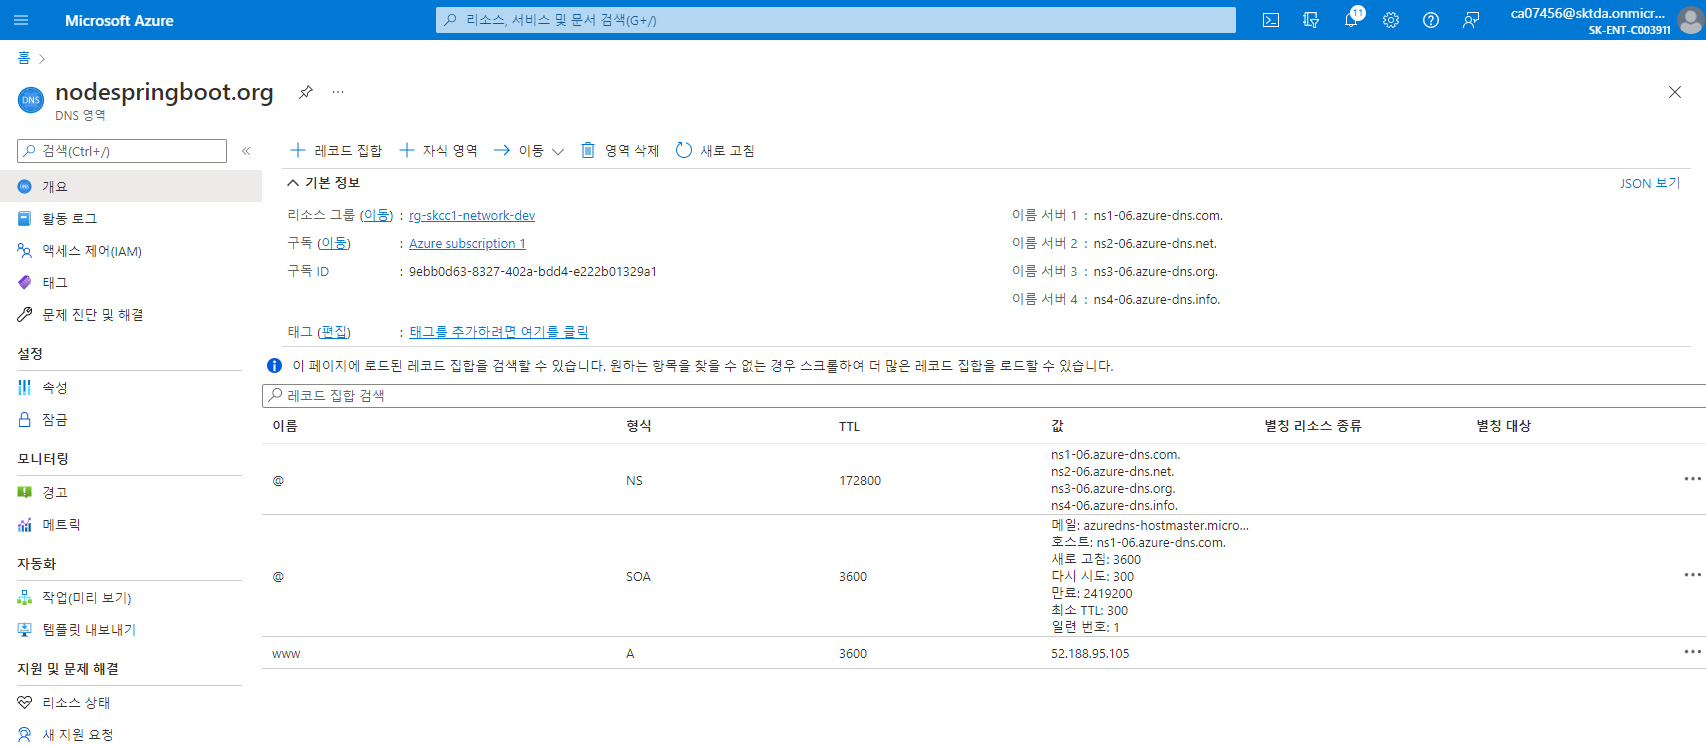
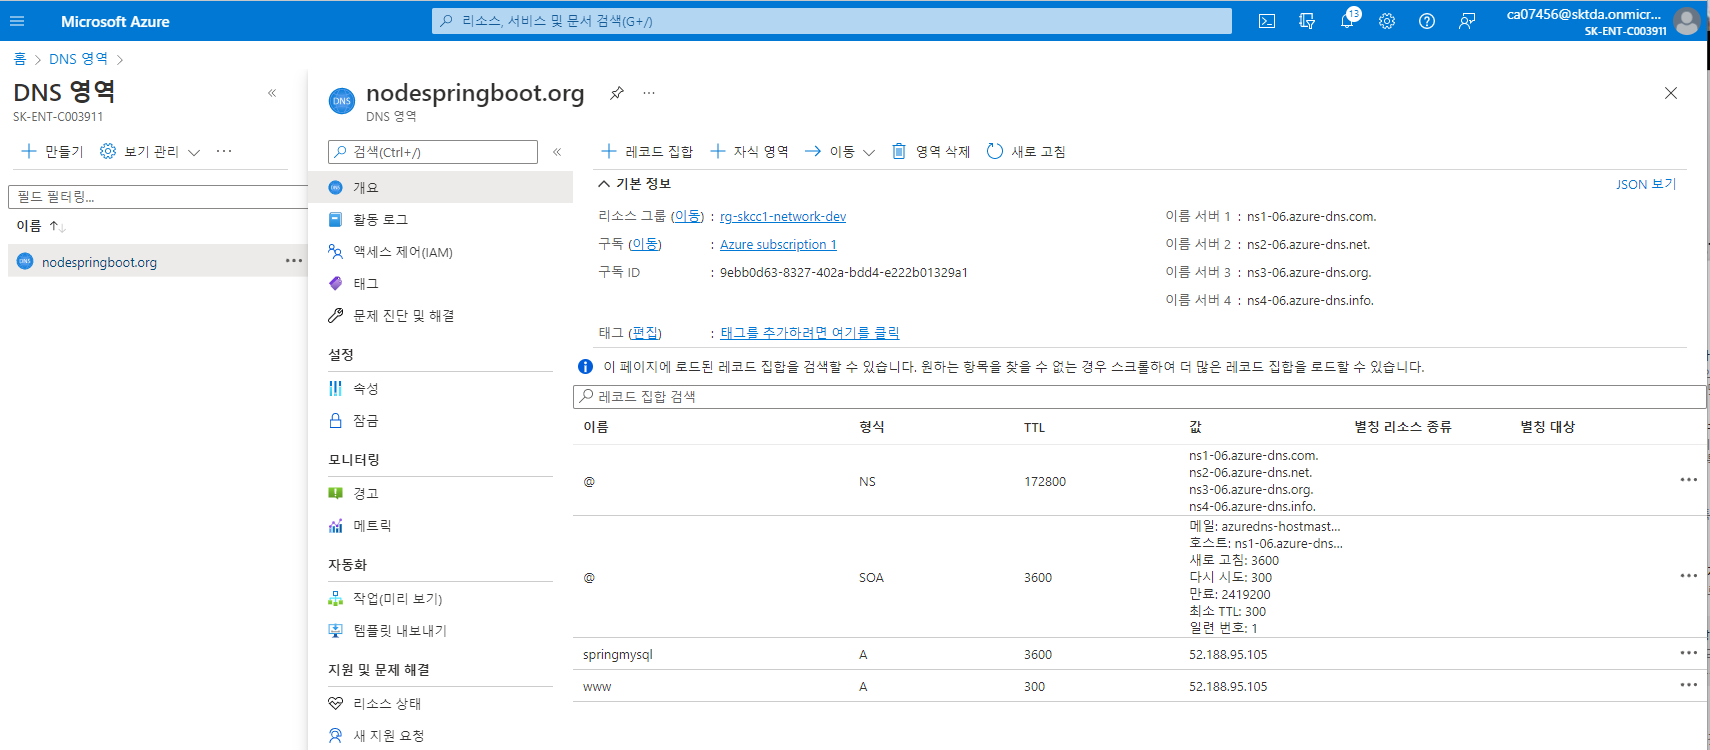
2022-04-16

diff --git a/loadbalance-springmysql.md b/loadbalance-springmysql.md
@@ -79,11 +79,13 @@ Set-AzLoadBalancerBackendAddressPool -InputObject $backendPool
 - A Record 등록(www) : 52.188.95.105
 ![lb-aci-springmysql-dns.png](./img/lb-aci-springmysql-dns.png)
 
-**Brower로 보기**
+##### **Brower로 보기**
+**http://52.188.95.105/**
 ![lb-aci-springmysql-brower.png](./img/lb-aci-springmysql-brower.png)
+**springmysql.nodespringboot.org**
+![lb-aci-springmysql-dns-browser.png](./img/lb-aci-springmysql-dns-browser.png)  
 
 **curl http://52.188.95.105/**  
-```
 PS D:\workspace\SpringBootMySQL> az network lb list         
 [
   {
